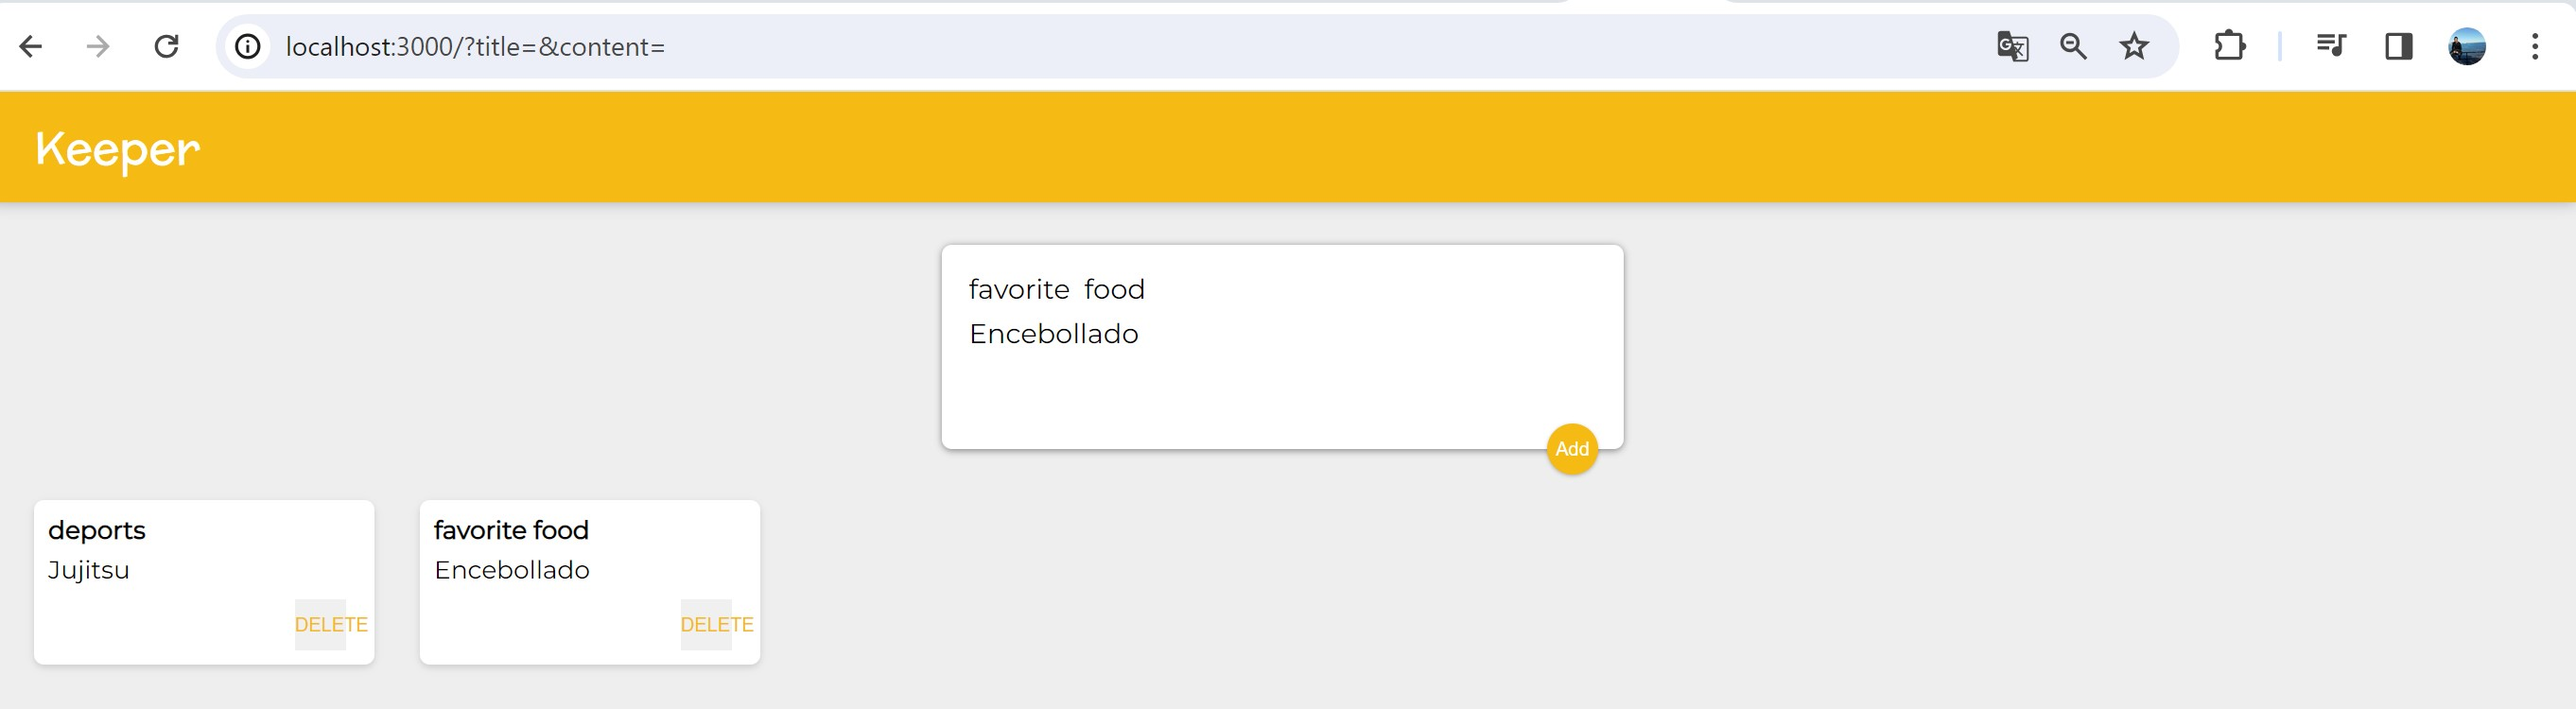
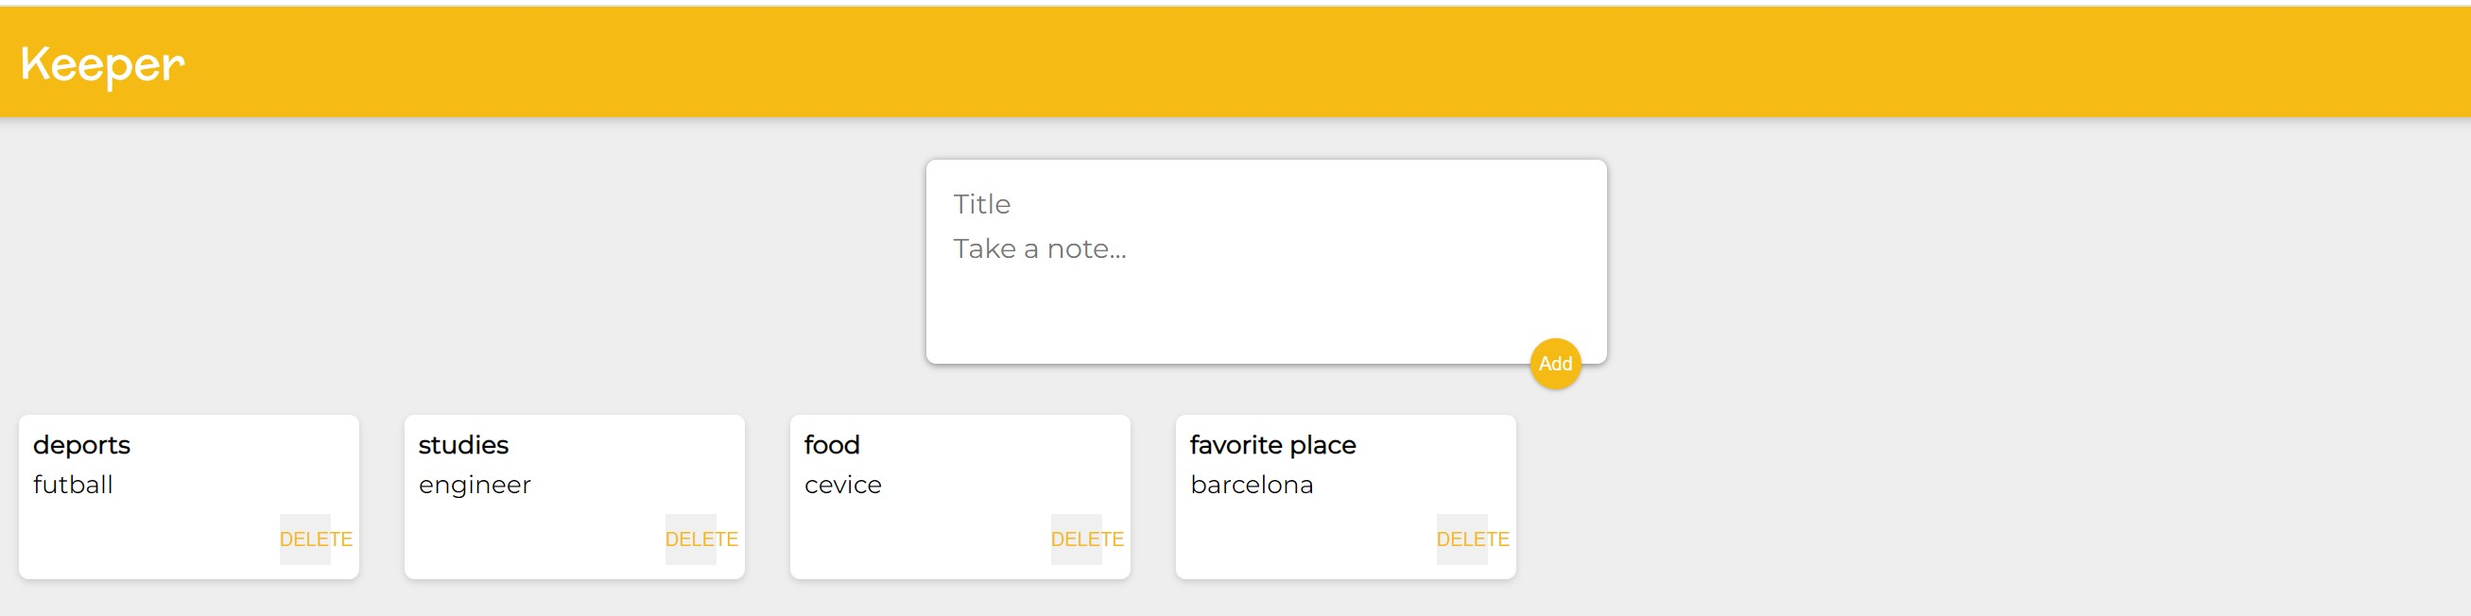
adding delete functions

diff --git a/src/componets/App.jsx b/src/componets/App.jsx
@@ -15,14 +15,22 @@ function App() {
     });
   }
 
+
+  function deleteNote(id) {
+    setNotes(prevItems => {
+      return prevItems.filter((noteItem, index) => {
+        return index !== id;
+      })
+    })
+  }
+
   return (
     <div>
       <Header />
-      <CreateArea  onAdd={addNote}/>
-      {notes.map((noteItem => (
-          <Note title={noteItem.title} content={noteItem.content} />
-        )))}
-    
+      <CreateArea onAdd={addNote} />
+      {notes.map((noteItem, index) => (
+        <Note key={index} id={index} title={noteItem.title} content={noteItem.content} onDelete ={deleteNote} />
+      ))}
       <Footer />
     </div>
   );

diff --git a/src/componets/Note.jsx b/src/componets/Note.jsx
@@ -1,11 +1,16 @@
 import React from "react";
 
 function Note(props) {
+
+  function handleClick() {
+    props.onDelete(props.id);
+  }
+  
   return (
     <div className="note">
       <h1>{props.title}</h1>
       <p>{props.content}</p>
-      <button>DELETE</button>
+      <button onClick={handleClick}>DELETE</button>
     </div>
   );
 }
